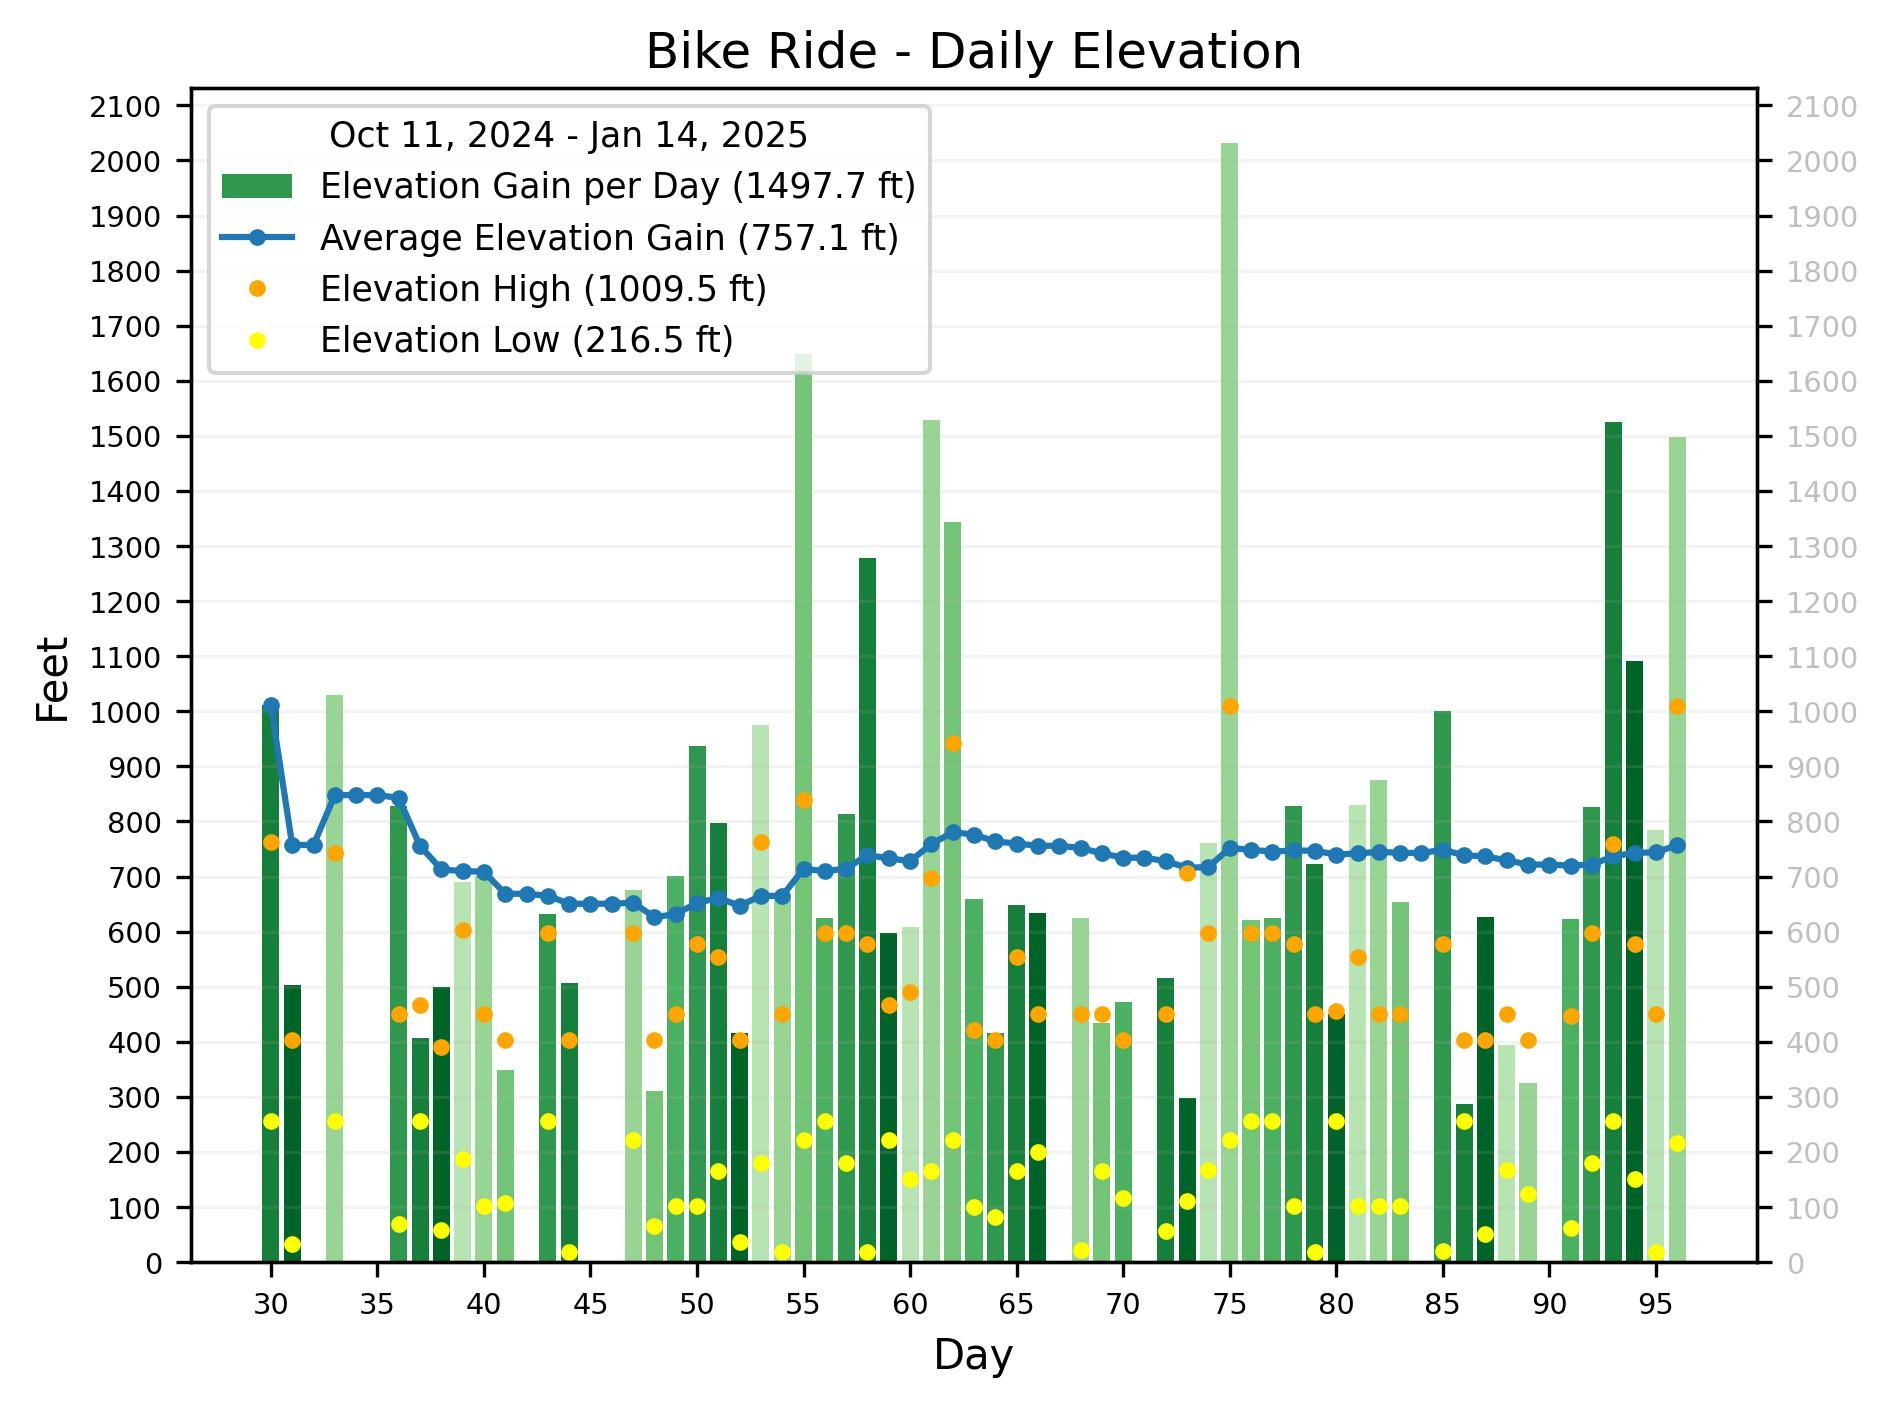
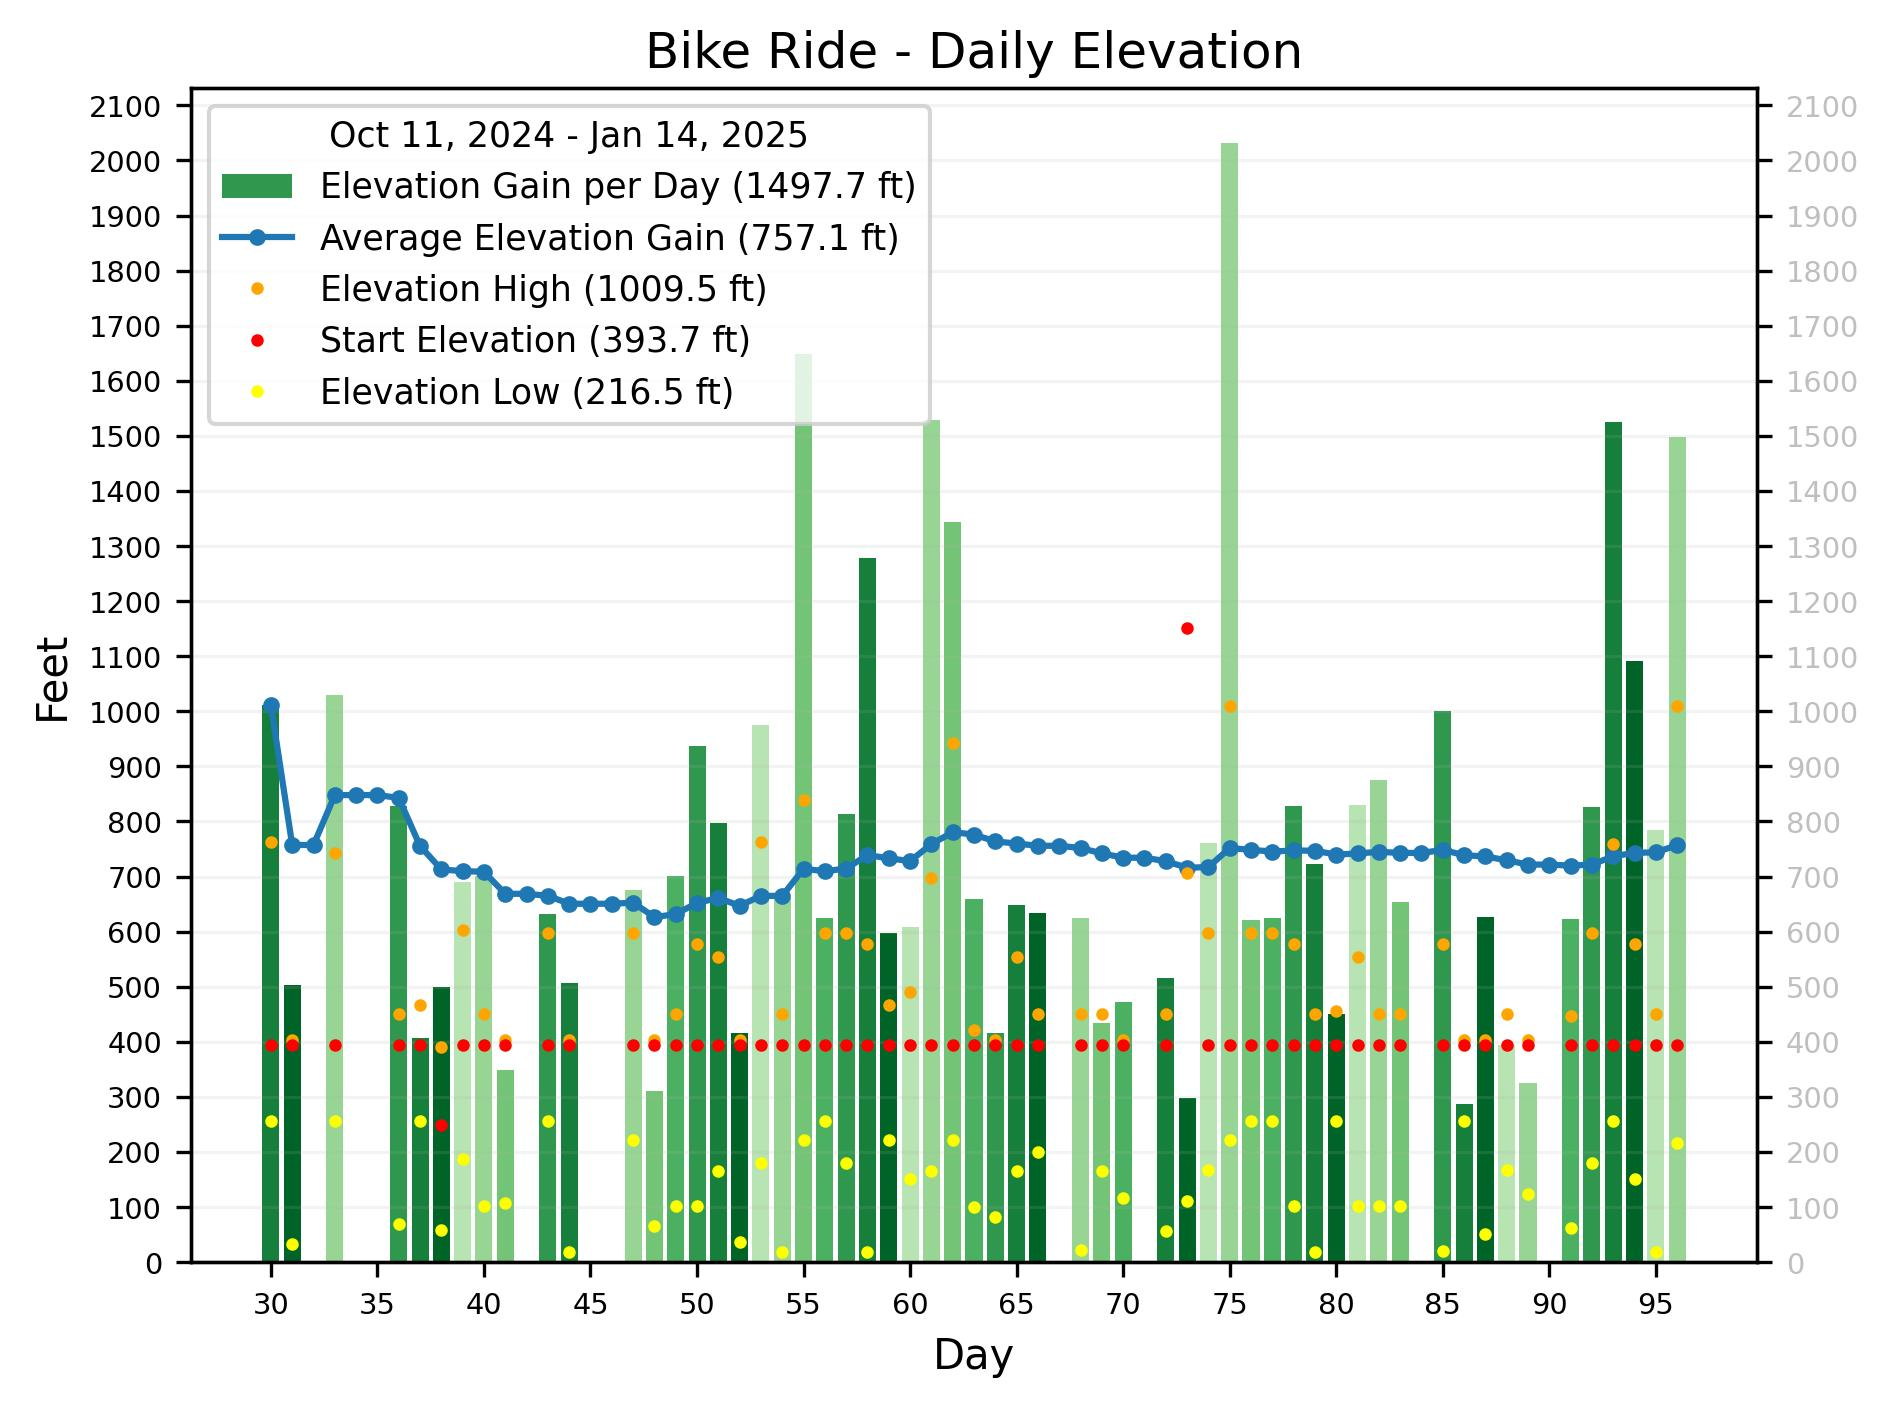
add starting elevation

diff --git a/src/biking/input.py b/src/biking/input.py
@@ -1,6 +1,7 @@
 from datetime import timedelta
 
 from .conversions import meters2feet, meters2miles, mps2mph, ymd2date
+from .geoloc import get_elevation
 from .strava import get_activities
 
 
@@ -52,8 +53,9 @@ class InputData:
         "2025-01-02": {"distance": 11.83},  # w G
     }
 
-    def __init__(self):
+    def __init__(self, params):
         self.date_range = self.manual_data_date_range()
+        self.params = params
 
     def manual_data_date_range(self):
         manual_dates = sorted(self.manual_data.keys())
@@ -66,9 +68,15 @@ class InputData:
 
     def get_strava_data(self):
         data = {}
+        cache_name = self.params.cache_name
+
         activities = get_activities()
         for activity in activities:
             ymd = activity["start_date_local"][:10]
+
+            elevation = get_elevation(cache_name, *activity["start_latlng"])
+            if elevation == 148:  # Total hack!!!  See README
+                elevation = 120
 
             record = dict(
                 ymd=ymd,
@@ -78,6 +86,7 @@ class InputData:
                 max_speed=mps2mph(activity["max_speed"]),
                 elev_high=meters2feet(activity["elev_high"]),
                 elev_low=meters2feet(activity["elev_low"]),
+                elev_start=meters2feet(elevation),
             )
             data[ymd] = record
 
@@ -108,6 +117,7 @@ class InputData:
                     max_speed=0,
                     elev_high=0,
                     elev_low=0,
+                    elev_start=None,
                 )
             daily_data.append(record)
 

diff --git a/src/biking/graph/elevation.py b/src/biking/graph/elevation.py
@@ -42,14 +42,20 @@ class ElevationGraph(Graph):
 
         y_low = self.stats["data"]["elevation_low_per_day"]
         y_high = self.stats["data"]["elevation_high_per_day"]
+        y_start = self.stats["data"]["elevation_start_per_day"]
 
         y_low = np.array([n if n > 0 else np.nan for n in y_low])
         y_high = np.array([n if n > 0 else np.nan for n in y_high])
+        y_start = np.array([np.nan if n is None else n for n in y_start])
 
-        line, = ax1.plot(x, y_high, color="orange", linestyle="None", marker="o", markersize=3)
+        line, = ax1.plot(x, y_high, color="orange", linestyle="None", marker="o", markersize=2)
         self.handles.append(line)
         self.labels.append(f"Elevation High ({y_high[-1]:0.1f} ft)")
 
-        line, = ax1.plot(x, y_low, color="yellow", linestyle="None", marker="o", markersize=3)
+        line, = ax1.plot(x, y_start, color="red", linestyle="None", marker="o", markersize=2)
+        self.handles.append(line)
+        self.labels.append(f"Start Elevation ({y_start[-1]:0.1f} ft)")
+
+        line, = ax1.plot(x, y_low, color="yellow", linestyle="None", marker="o", markersize=2)
         self.handles.append(line)
         self.labels.append(f"Elevation Low ({y_low[-1]:0.1f} ft)")

diff --git a/src/biking/params.py b/src/biking/params.py
@@ -3,7 +3,7 @@ import os
 
 class Parameters:
     def __init__(self):
-        self.output_path = "output/graph"
+        self.cache_name = ".strava_cache"
         self.files = dict(
             distance="Distance.jpg",
             elevation="Elevation.jpg",
@@ -12,11 +12,12 @@ class Parameters:
             speed="Speed.jpg",
             top_speed="TopSpeed.jpg",
         )
-        self.only_tracked_days = True
-        self.linspace_params = (0.3, 0.9)
         self.green_legend_dir = "output/legend"
         self.green_legend_html_file = "green_legend.html"
         self.green_legend_img_file = "green_legend.jpg"
+        self.only_tracked_days = True
+        self.output_path = "output/graph"
+        self.linspace_params = (0.3, 0.9)
 
     def file(self, name):
         return os.path.join(self.output_path, self.files[name])

diff --git a/src/biking/stats.py b/src/biking/stats.py
@@ -39,6 +39,7 @@ class Statistics:
             avg_elevation_gain_per_day=[],
             elevation_high_per_day=[],
             elevation_low_per_day=[],
+            elevation_start_per_day=[],
         )
 
         daily_data = self.input_data.get_daily_data()
@@ -72,6 +73,7 @@ class Statistics:
             data["avg_elevation_gain_per_day"].append(safe_div(total_elevation_gain, num_data_tracked_days))
             data["elevation_high_per_day"].append(record["elev_high"])
             data["elevation_low_per_day"].append(record["elev_low"])
+            data["elevation_start_per_day"].append(record["elev_start"])
 
         first_date, last_date = self.input_data.date_range
         first_day_of_week = calendar.weekday(first_date.year, first_date.month, first_date.day)

diff --git a/src/biking/geoloc.py b/src/biking/geoloc.py
@@ -1,0 +1,16 @@
+from requests_cache import CachedSession
+
+
+def get_elevation(cache_name, lat, lng):
+    session = CachedSession(cache_name)
+
+    url = f"https://api.open-elevation.com/api/v1/lookup?locations={lat},{lng}"
+    response = session.get(url)
+
+    elevation = None
+
+    if response.status_code == 200:
+        data = response.json()
+        elevation = data["results"][0]["elevation"]
+
+    return elevation

diff --git a/src/analyze.py b/src/analyze.py
@@ -43,7 +43,7 @@ def generate_graphs(parameters, stats):
 
 def main():
     parameters = Parameters()
-    input_data = InputData()
+    input_data = InputData(parameters)
     stats = calculate_statistics(input_data)
     generate_graphs(parameters, stats)
 

diff --git a/README.md b/README.md
@@ -52,7 +52,20 @@ If only Distance is available for a day,
 the Performance Index will not be calculated.
 
 
-## Replicate This Project
+## Elevation Notes
+
+Strava does not provide the starting elevation, but it provides the starting location as latitude and longitude.
+The Open Elevation API is used to determine the elevation from this.
+
+Do not ask how the elevation high can be lower than the starting elevation.
+I'm still trying to get to the bottom of that, but it looks like Strava is
+providing a starting location that is 1170 feet away.
+This may be because I'm hiding my starting and ending location.
+
+For now, there is a shameless hack to convert a starting elevation of 148 meters to 120 meters.
+
+
+## To Replicate This Project
 
 #### 1. Create a Strava app
 
